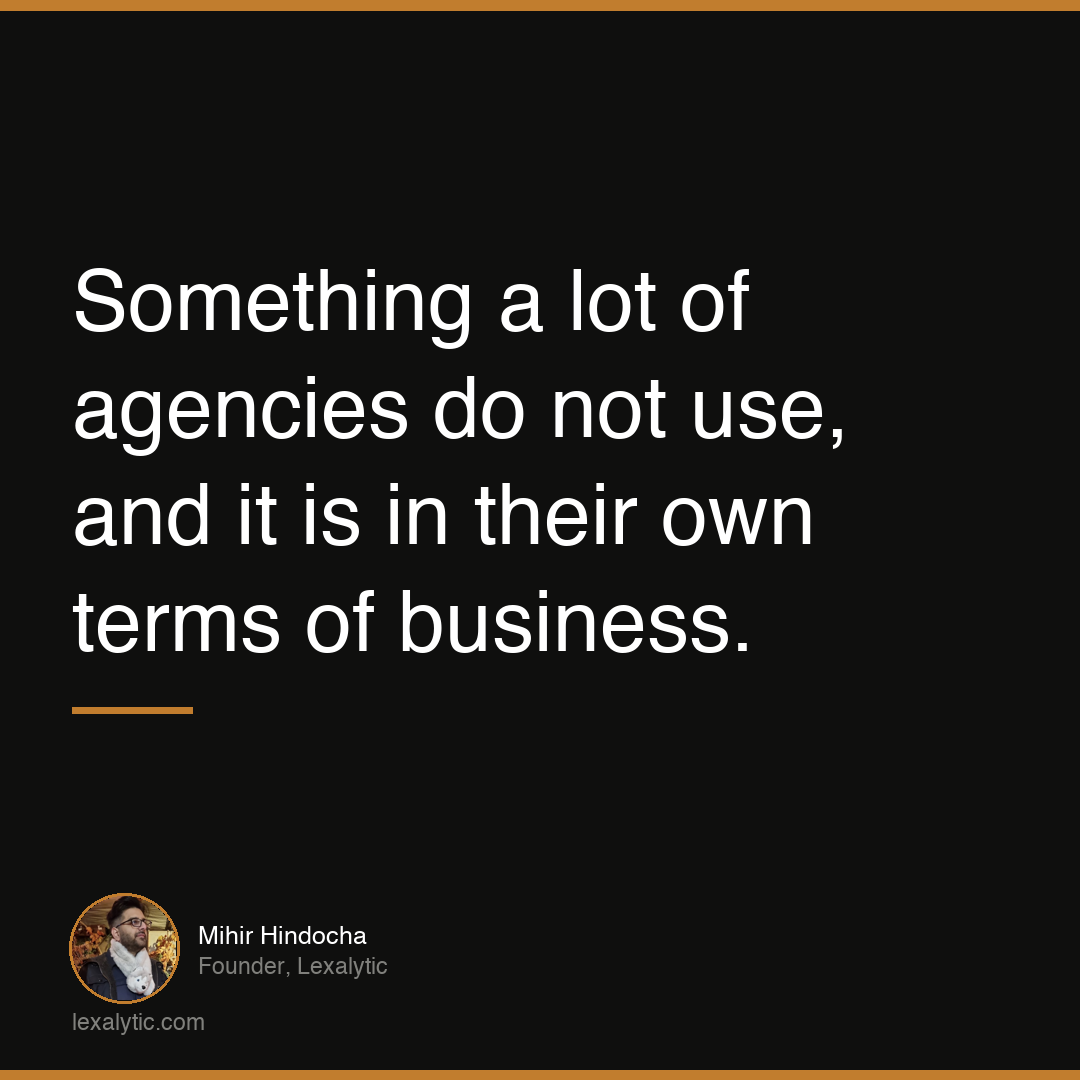
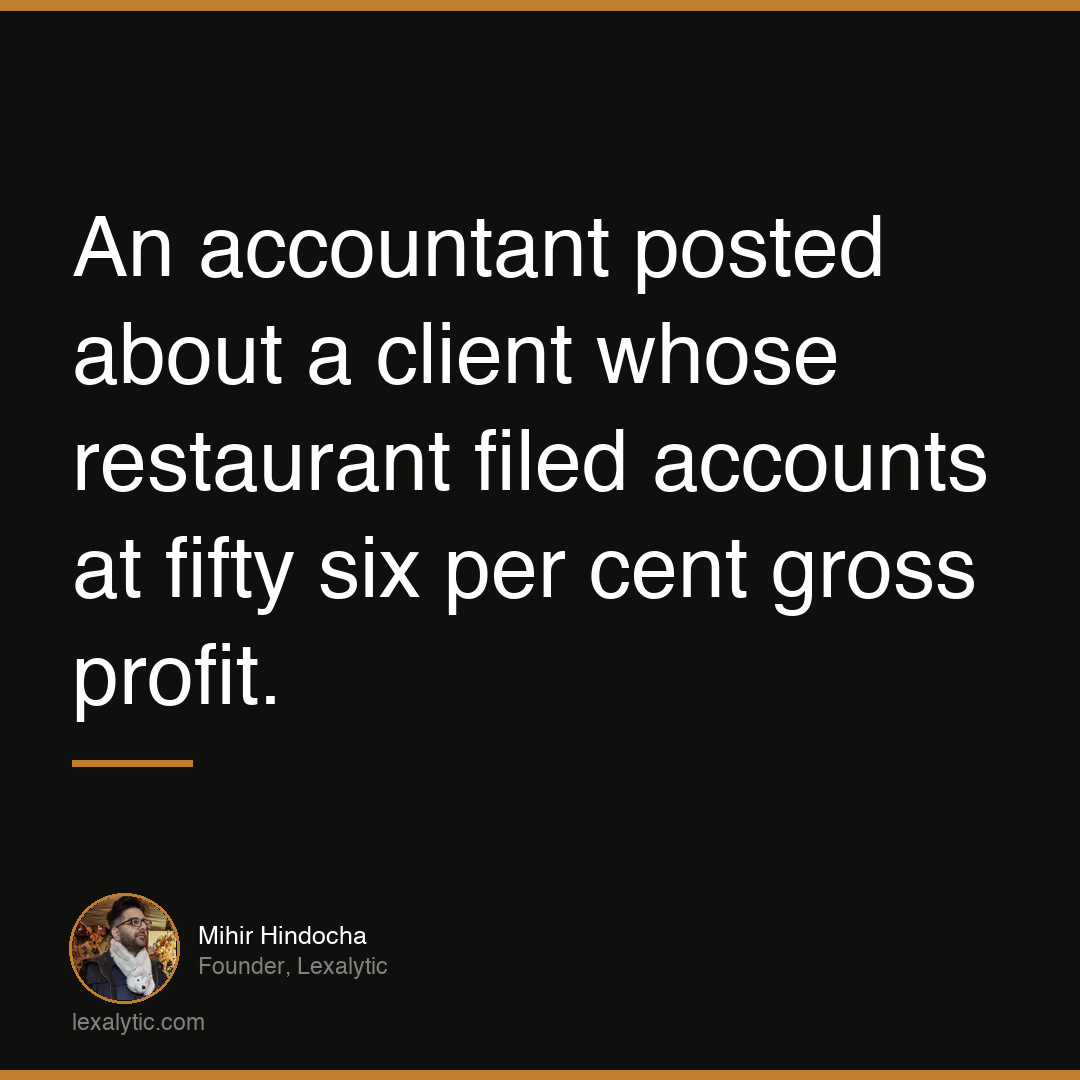
add hospitality blog posts and LinkedIn posts with images

Changed region(s): [[0.0611, 0.1833, 0.9167, 0.6722], [0.0611, 0.7028, 0.1833, 0.7333]]

diff --git a/app/blog/restaurant-below-benchmark-gross-profit/page.tsx b/app/blog/restaurant-below-benchmark-gross-profit/page.tsx
@@ -1,0 +1,114 @@
+import type { Metadata } from 'next'
+import Link from 'next/link'
+
+export const metadata: Metadata = {
+  alternates: { canonical: 'https://www.lexalytic.com/blog/restaurant-below-benchmark-gross-profit' },
+  title: 'Your Gross Profit Is Below Benchmark. That Is Not The Same As Being Wrong. | Lexalytic',
+  description: 'HMRC compares filed restaurant returns against expected profit benchmarks automatically. Delivery commission, discounting and waste all depress margin legitimately. The difficulty is evidencing that after the fact rather than before.',
+  openGraph: {
+    title: 'Your Gross Profit Is Below Benchmark. That Is Not The Same As Being Wrong.',
+    description: 'HMRC compares filed restaurant returns against expected profit benchmarks automatically. Delivery commission, discounting and waste all depress margin legitimately. The difficulty is evidencing that after the fact rather than before.',
+    url: 'https://www.lexalytic.com/blog/restaurant-below-benchmark-gross-profit',
+    siteName: 'Lexalytic',
+    locale: 'en_GB',
+    type: 'article',
+  },
+}
+
+const articleSchema = {
+  "@context": "https://schema.org",
+  "@type": "Article",
+  "headline": "Your Gross Profit Is Below Benchmark. That Is Not The Same As Being Wrong.",
+  "description": "HMRC compares filed restaurant returns against expected profit benchmarks automatically. Delivery commission, discounting and waste all depress margin legitimately. The difficulty is evidencing that after the fact rather than before.",
+  "datePublished": "2026-11-19",
+  "dateModified": "2026-11-19",
+  "author": {
+    "@type": "Person",
+    "name": "Mihir Hindocha",
+    "url": "https://www.lexalytic.com/about",
+    "jobTitle": "Founder",
+    "worksFor": {
+      "@type": "Organization",
+      "name": "Lexalytic",
+      "url": "https://www.lexalytic.com"
+    }
+  },
+  "publisher": {
+    "@id": "https://www.lexalytic.com/#organisation"
+  },
+  "mainEntityOfPage": {
+    "@type": "WebPage",
+    "@id": "https://www.lexalytic.com/blog/restaurant-below-benchmark-gross-profit"
+  },
+  "inLanguage": "en-GB",
+  "articleSection": "Hospitality"
+}
+
+export default function BlogPost() {
+  return (
+    <div style={{ background: 'var(--bg)', minHeight: '100vh' }}>
+      <script type="application/ld+json" dangerouslySetInnerHTML={{ __html: JSON.stringify(articleSchema) }} />
+      <nav style={{ position: 'fixed', top: 0, left: 0, right: 0, zIndex: 1000, background: 'rgba(250,250,248,0.95)', backdropFilter: 'blur(12px)', borderBottom: '1px solid rgba(15,15,15,0.08)' }}>
+        <div className="container" style={{ display: 'flex', alignItems: 'center', justifyContent: 'space-between', height: '68px' }}>
+          <Link href="/" style={{ fontFamily: 'var(--serif)', fontSize: '22px', color: 'var(--ink)', letterSpacing: '-0.03em' }}>Lex<span style={{ color: 'var(--amber)' }}>alytic</span></Link>
+          <div style={{ display: 'flex', gap: '24px', alignItems: 'center' }} className="desktop-nav">
+            <Link href="/tools" style={{ fontSize: '14px', color: 'var(--ink-3)' }}>Free Tools</Link>
+            <Link href="/blog" style={{ fontSize: '14px', color: 'var(--ink-3)' }}>Blog</Link>
+            <Link href="/#contact" className="btn-primary" style={{ padding: '10px 20px', fontSize: '14px' }}>Book free call</Link>
+          </div>
+        </div>
+      </nav>
+      <section style={{ paddingTop: '120px', paddingBottom: '60px', background: 'var(--bg-2)', borderBottom: '1px solid var(--border)' }}>
+        <div className="container" style={{ maxWidth: '780px' }}>
+          <div style={{ display: 'flex', gap: '12px', marginBottom: '20px', flexWrap: 'wrap' }}>
+            <span style={{ fontSize: '12px', fontWeight: '500', color: 'var(--amber)', background: 'rgba(193,125,46,0.1)', padding: '4px 12px', borderRadius: '100px' }}>Hospitality</span>
+            <span style={{ fontSize: '12px', color: 'var(--ink-4)' }}>November 2026 · 8 min read</span>
+          </div>
+          <h1 style={{ fontSize: 'clamp(1.8rem, 4vw, 2.8rem)', lineHeight: '1.15', marginBottom: '24px', letterSpacing: '-0.02em' }}>Your Gross Profit Is Below Benchmark. That Is Not The Same As Being Wrong.</h1>
+          <div style={{ display: 'flex', gap: '16px', alignItems: 'center', padding: '20px', background: 'var(--bg)', borderRadius: 'var(--radius)', border: '1px solid var(--border)' }}>
+            <img src="/mihir.jpg" alt="Mihir Hindocha" style={{ width: '44px', height: '44px', borderRadius: '50%', objectFit: 'cover', flexShrink: 0 }} />
+            <div>
+              <a href="/about" style={{ fontSize: '14px', fontWeight: '500', color: 'var(--ink)', textDecoration: 'none' }}>Mihir Hindocha</a>
+              <div style={{ fontSize: '13px', color: 'var(--ink-4)' }}>Digital Studio Founder · Lexalytic · 15 years experience</div>
+            </div>
+          </div>
+        </div>
+      </section>
+      <article style={{ padding: 'clamp(40px, 6vw, 80px) 0' }}>
+        <div className="container" style={{ maxWidth: '780px' }}>
+          <p style={{ fontSize: '18px', color: 'var(--ink-2)', lineHeight: '1.85', marginBottom: '48px' }}>An accountant once posted about a client whose Indian restaurant filed accounts showing fifty six per cent gross profit. The inspector said it should be at least sixty, based on other restaurants. The client was not doing anything wrong. Explaining that, after the year had closed and without the records to hand, turned out to be the hard part.</p>
+          <div style={{ background: 'var(--bg-2)', border: '1px solid var(--border)', borderRadius: 'var(--radius-lg)', padding: '28px 32px', marginBottom: '48px' }}>
+            <h2 style={{ fontSize: 'clamp(1.3rem, 2.5vw, 1.7rem)', marginBottom: '16px' }}>How the comparison happens</h2>
+            <p style={{ fontSize: '17px', color: 'var(--ink-2)', lineHeight: '1.85', margin: 0 }}>HMRC publishes expected profit figures for restaurants and compares filed returns against them through the Connect system. It is automatic rather than something an inspector decides to look at. Full service and casual dining is generally expected at sixty five to seventy per cent gross and three to six per cent net, quick service and takeaways at sixty five to seventy per cent gross and six to nine per cent net, and pubs higher again because drink carries better margin. Sitting consistently below the band for your format is one of the most common triggers for a compliance check, because from the outside it can indicate either sales that were not recorded or purchases that were.</p>
+          </div>
+          <h2 style={{ fontSize: 'clamp(1.3rem, 2.5vw, 1.7rem)', marginBottom: '20px' }}>The reasons a straight business sits low</h2>
+          <p style={{ fontSize: '17px', color: 'var(--ink-2)', lineHeight: '1.85', marginBottom: '48px' }}>Delivery platform commission is the biggest and the least visible, because it does not appear in cost of sales at all. A quarter of turnover going through a platform at thirty per cent takes several points off net margin while gross profit looks untouched. Discounting and set menus pull gross profit down directly. Waste and spoilage do the same, and hospitality runs three to five per cent as a matter of course. Staff meals, comps for unhappy tables, and a tied supply agreement if you are a pub tenant all push the same way. Each is entirely legitimate and none of them shows up anywhere obvious in a set of accounts.</p>
+          <h2 style={{ fontSize: 'clamp(1.3rem, 2.5vw, 1.7rem)', marginBottom: '20px' }}>Why the explanation has to be evidenced</h2>
+          <p style={{ fontSize: '17px', color: 'var(--ink-2)', lineHeight: '1.85', marginBottom: '48px' }}>Saying delivery commission cost you three points is an assertion. The same claim with platform statements attached is a fact. That distinction decides whether a conversation is short or long, and it is almost entirely determined by what you kept at the time. A waste log written as it happened, with dates and sign-off, is worth a great deal. A waste figure estimated eighteen months later is worth very little, however honest it is, because there is no way to distinguish it from a number chosen to fit.</p>
+          <h2 style={{ fontSize: 'clamp(1.3rem, 2.5vw, 1.7rem)', marginBottom: '20px' }}>What is worth keeping, and when</h2>
+          <p style={{ fontSize: '17px', color: 'var(--ink-2)', lineHeight: '1.85', marginBottom: '48px' }}>Platform statements showing commission deducted, and the split between platform and direct sales in your till reports. Till reports showing discount codes applied by period, with copies of the offers that ran and the dates. A dated waste log, kept contemporaneously, with supervisor sign-off on anything significant. A written staff meal policy and a record of meals taken. If you are tied, the tenancy agreement plus pubco price lists against open market quotes for the same products. None of this is difficult while it is happening. All of it is close to impossible to recreate afterwards.</p>
+          <h2 style={{ fontSize: 'clamp(1.3rem, 2.5vw, 1.7rem)', marginBottom: '20px' }}>The platform reporting nobody mentioned</h2>
+          <p style={{ fontSize: '17px', color: 'var(--ink-2)', lineHeight: '1.85', marginBottom: '48px' }}>Digital platforms now report seller income directly to HMRC. Deliveroo, Uber Eats and Just Eat all do it. So your platform turnover is already known, regardless of what your own records show. For the overwhelming majority of operators this changes nothing, because the figures agree. It does mean that any discrepancy surfaces automatically rather than only if somebody chooses to look, and it means the reconciliation between your till, your platform statements and your return matters more than it used to.</p>
+          <h2 style={{ fontSize: 'clamp(1.3rem, 2.5vw, 1.7rem)', marginBottom: '20px' }}>When the gap is not explained</h2>
+          <p style={{ fontSize: '17px', color: 'var(--ink-2)', lineHeight: '1.85', marginBottom: '48px' }}>Sometimes you work through all of it and the numbers still do not account for the variance. That is worth knowing for its own sake, not because of HMRC. An unexplained gap between what you should be making and what you are making usually means stock going out without being rung through, portioning that has drifted, or a supplier price rise that nobody caught. All three cost you money whether anyone ever asks about them or not.</p>
+          <div style={{ borderLeft: '3px solid var(--amber)', paddingLeft: '24px', marginBottom: '48px' }}>
+            <h2 style={{ fontSize: 'clamp(1.3rem, 2.5vw, 1.7rem)', marginBottom: '16px' }}>Seeing it before somebody else does</h2>
+            <p style={{ fontSize: '17px', color: 'var(--ink-2)', lineHeight: '1.85', margin: 0 }}>Our free benchmark check shows where your figures sit against the published ranges for your format, how much of any gap delivery mix, discounting, waste and a tie would account for, and what records would evidence each one. It takes a few minutes and runs entirely in your browser. If you have already had a letter, speak to an accountant or a tax investigation specialist rather than relying on a tool.</p>
+          </div>
+          <div style={{ padding: '36px', background: 'var(--ink)', borderRadius: 'var(--radius-lg)', marginTop: '56px' }}>
+            <h3 style={{ color: 'var(--white)', fontSize: 'clamp(1.2rem, 2.5vw, 1.5rem)', marginBottom: '14px' }}>How do your numbers look from the outside?</h3>
+            <p style={{ color: 'rgba(255,255,255,0.55)', fontSize: '15px', lineHeight: '1.75', maxWidth: '520px', marginBottom: '26px' }}>Free check against the published benchmarks, with what would explain a gap and what records would evidence it. Nothing is uploaded.</p>
+            <Link href="/tools/restaurant-benchmark-check" className="btn-amber" style={{ fontSize: '15px', padding: '14px 28px' }}>Check where your numbers sit</Link>
+          </div>
+        </div>
+      </article>
+      <footer style={{ padding: '40px 0', borderTop: '1px solid var(--border)', marginTop: '40px' }}>
+        <div className="container" style={{ display: 'flex', justifyContent: 'space-between', alignItems: 'center', flexWrap: 'wrap', gap: '16px' }}>
+          <Link href="/" style={{ fontFamily: 'var(--serif)', fontSize: '20px', color: 'var(--ink)', letterSpacing: '-0.03em' }}>Lex<span style={{ color: 'var(--amber)' }}>alytic</span></Link>
+          <p style={{ fontSize: '13px', color: 'var(--ink-4)', margin: 0 }}>2026 Lexalytic. All rights reserved.</p>
+          <Link href="/tools" style={{ fontSize: '13px', color: 'var(--ink-3)' }}>Free tools</Link>
+        </div>
+      </footer>
+    </div>
+  )
+}

diff --git a/app/blog/what-deliveroo-commission-really-costs/page.tsx b/app/blog/what-deliveroo-commission-really-costs/page.tsx
@@ -1,0 +1,114 @@
+import type { Metadata } from 'next'
+import Link from 'next/link'
+
+export const metadata: Metadata = {
+  alternates: { canonical: 'https://www.lexalytic.com/blog/what-deliveroo-commission-really-costs' },
+  title: 'What Deliveroo Actually Costs You Per Dish | Lexalytic',
+  description: 'A twelve pound dish returns around eight pounds forty after commission, before VAT and packaging. Most kitchens price delivery identically to dine-in, which means the thinnest dishes lose money on every order.',
+  openGraph: {
+    title: 'What Deliveroo Actually Costs You Per Dish',
+    description: 'A twelve pound dish returns around eight pounds forty after commission, before VAT and packaging. Most kitchens price delivery identically to dine-in, which means the thinnest dishes lose money on every order.',
+    url: 'https://www.lexalytic.com/blog/what-deliveroo-commission-really-costs',
+    siteName: 'Lexalytic',
+    locale: 'en_GB',
+    type: 'article',
+  },
+}
+
+const articleSchema = {
+  "@context": "https://schema.org",
+  "@type": "Article",
+  "headline": "What Deliveroo Actually Costs You Per Dish",
+  "description": "A twelve pound dish returns around eight pounds forty after commission, before VAT and packaging. Most kitchens price delivery identically to dine-in, which means the thinnest dishes lose money on every order.",
+  "datePublished": "2026-10-13",
+  "dateModified": "2026-10-13",
+  "author": {
+    "@type": "Person",
+    "name": "Mihir Hindocha",
+    "url": "https://www.lexalytic.com/about",
+    "jobTitle": "Founder",
+    "worksFor": {
+      "@type": "Organization",
+      "name": "Lexalytic",
+      "url": "https://www.lexalytic.com"
+    }
+  },
+  "publisher": {
+    "@id": "https://www.lexalytic.com/#organisation"
+  },
+  "mainEntityOfPage": {
+    "@type": "WebPage",
+    "@id": "https://www.lexalytic.com/blog/what-deliveroo-commission-really-costs"
+  },
+  "inLanguage": "en-GB",
+  "articleSection": "Hospitality"
+}
+
+export default function BlogPost() {
+  return (
+    <div style={{ background: 'var(--bg)', minHeight: '100vh' }}>
+      <script type="application/ld+json" dangerouslySetInnerHTML={{ __html: JSON.stringify(articleSchema) }} />
+      <nav style={{ position: 'fixed', top: 0, left: 0, right: 0, zIndex: 1000, background: 'rgba(250,250,248,0.95)', backdropFilter: 'blur(12px)', borderBottom: '1px solid rgba(15,15,15,0.08)' }}>
+        <div className="container" style={{ display: 'flex', alignItems: 'center', justifyContent: 'space-between', height: '68px' }}>
+          <Link href="/" style={{ fontFamily: 'var(--serif)', fontSize: '22px', color: 'var(--ink)', letterSpacing: '-0.03em' }}>Lex<span style={{ color: 'var(--amber)' }}>alytic</span></Link>
+          <div style={{ display: 'flex', gap: '24px', alignItems: 'center' }} className="desktop-nav">
+            <Link href="/tools" style={{ fontSize: '14px', color: 'var(--ink-3)' }}>Free Tools</Link>
+            <Link href="/blog" style={{ fontSize: '14px', color: 'var(--ink-3)' }}>Blog</Link>
+            <Link href="/#contact" className="btn-primary" style={{ padding: '10px 20px', fontSize: '14px' }}>Book free call</Link>
+          </div>
+        </div>
+      </nav>
+      <section style={{ paddingTop: '120px', paddingBottom: '60px', background: 'var(--bg-2)', borderBottom: '1px solid var(--border)' }}>
+        <div className="container" style={{ maxWidth: '780px' }}>
+          <div style={{ display: 'flex', gap: '12px', marginBottom: '20px', flexWrap: 'wrap' }}>
+            <span style={{ fontSize: '12px', fontWeight: '500', color: 'var(--amber)', background: 'rgba(193,125,46,0.1)', padding: '4px 12px', borderRadius: '100px' }}>Hospitality</span>
+            <span style={{ fontSize: '12px', color: 'var(--ink-4)' }}>October 2026 · 7 min read</span>
+          </div>
+          <h1 style={{ fontSize: 'clamp(1.8rem, 4vw, 2.8rem)', lineHeight: '1.15', marginBottom: '24px', letterSpacing: '-0.02em' }}>What Deliveroo Actually Costs You Per Dish</h1>
+          <div style={{ display: 'flex', gap: '16px', alignItems: 'center', padding: '20px', background: 'var(--bg)', borderRadius: 'var(--radius)', border: '1px solid var(--border)' }}>
+            <img src="/mihir.jpg" alt="Mihir Hindocha" style={{ width: '44px', height: '44px', borderRadius: '50%', objectFit: 'cover', flexShrink: 0 }} />
+            <div>
+              <a href="/about" style={{ fontSize: '14px', fontWeight: '500', color: 'var(--ink)', textDecoration: 'none' }}>Mihir Hindocha</a>
+              <div style={{ fontSize: '13px', color: 'var(--ink-4)' }}>Digital Studio Founder · Lexalytic · 15 years experience</div>
+            </div>
+          </div>
+        </div>
+      </section>
+      <article style={{ padding: 'clamp(40px, 6vw, 80px) 0' }}>
+        <div className="container" style={{ maxWidth: '780px' }}>
+          <p style={{ fontSize: '18px', color: 'var(--ink-2)', lineHeight: '1.85', marginBottom: '48px' }}>A twelve pound dish on Deliveroo returns roughly eight pounds forty. That is before you take the VAT off, before the box, and before anyone in the kitchen has touched it. Most independents price their delivery menu identically to the restaurant menu, which means the platform commission comes entirely out of margin that was already thin.</p>
+          <div style={{ background: 'var(--bg-2)', border: '1px solid var(--border)', borderRadius: 'var(--radius-lg)', padding: '28px 32px', marginBottom: '48px' }}>
+            <h2 style={{ fontSize: 'clamp(1.3rem, 2.5vw, 1.7rem)', marginBottom: '16px' }}>The order the maths happens in</h2>
+            <p style={{ fontSize: '17px', color: 'var(--ink-2)', lineHeight: '1.85', margin: 0 }}>This is where most operators go wrong, and it costs more than the commission rate itself. The customer pays twelve pounds including VAT. If you are VAT registered, two pounds of that was never yours. You are working from ten pounds. The platform then takes its cut of the sale, so at thirty per cent you receive seven pounds. Out of that comes the food cost and the packaging. On a dish costing four pounds twenty with forty five pence of packaging, you are left with about two pounds thirty five against the four pounds seventy you would have made in the restaurant. Work the percentages the other way round and you will convince yourself you are making nearly twice what you are.</p>
+          </div>
+          <h2 style={{ fontSize: 'clamp(1.3rem, 2.5vw, 1.7rem)', marginBottom: '20px' }}>What the rates actually are</h2>
+          <p style={{ fontSize: '17px', color: 'var(--ink-2)', lineHeight: '1.85', marginBottom: '48px' }}>Deliveroo and Uber Eats typically sit between twenty five and thirty five per cent where they provide the rider, with the exact figure depending on your contract and how long you have been on the platform. Just Eat runs considerably lower on its order-only tier, often around fourteen per cent, because you are doing the delivery yourself. That difference is enormous on a dish with a thin margin, and it is worth knowing which tier you are actually on rather than which one you signed up to. Rates get renegotiated, promotional periods end, and the statement is the only reliable source.</p>
+          <h2 style={{ fontSize: 'clamp(1.3rem, 2.5vw, 1.7rem)', marginBottom: '20px' }}>Why the thin dishes are the dangerous ones</h2>
+          <p style={{ fontSize: '17px', color: 'var(--ink-2)', lineHeight: '1.85', marginBottom: '48px' }}>A dish running at seventy per cent margin in the restaurant survives a thirty per cent commission, badly but survives. A dish at fifty five per cent does not. The problem is that the low margin dishes are frequently the popular ones, because they are cheap and people order them. So the volume is concentrated in exactly the items that lose money, and every marketing push, every promotion, every bit of platform visibility makes the position worse rather than better. Selling more of a loss-making dish is not a growth problem, it is an acceleration of the same mistake.</p>
+          <h2 style={{ fontSize: 'clamp(1.3rem, 2.5vw, 1.7rem)', marginBottom: '20px' }}>Pricing the delivery menu separately</h2>
+          <p style={{ fontSize: '17px', color: 'var(--ink-2)', lineHeight: '1.85', marginBottom: '48px' }}>Delivery menus generally need eight to twelve percentage points more margin than dine-in to end up in the same place, which in practice means pricing fifteen to twenty five per cent higher. Every major platform permits this and most chains do it, which is why a Big Mac costs more on Uber Eats than in the restaurant. Customers are used to it and the platforms do not penalise it. The reluctance is almost always the operator worrying about looking expensive, which is a reasonable instinct applied to the wrong problem.</p>
+          <h2 style={{ fontSize: 'clamp(1.3rem, 2.5vw, 1.7rem)', marginBottom: '20px' }}>The dishes that should not be on there at all</h2>
+          <p style={{ fontSize: '17px', color: 'var(--ink-2)', lineHeight: '1.85', marginBottom: '48px' }}>Some dishes do not work on delivery whatever you charge. Anything that goes soggy, anything that needs to arrive hot and does not, anything where the portion looks mean in a box. Those damage the review score as well as the margin, which then hurts your visibility on the platform. Taking them off the delivery menu is not a loss, it is removing a thing that was costing you twice.</p>
+          <h2 style={{ fontSize: 'clamp(1.3rem, 2.5vw, 1.7rem)', marginBottom: '20px' }}>One more reason to know your platform numbers</h2>
+          <p style={{ fontSize: '17px', color: 'var(--ink-2)', lineHeight: '1.85', marginBottom: '48px' }}>Under the digital platform reporting rules, Deliveroo, Uber Eats and Just Eat report seller income directly to HMRC. Whatever your own records say, the platform turnover is visible. That is not a problem if the two agree, which for most operators they do, but it is worth knowing that the reconciliation happens automatically rather than only if somebody goes looking.</p>
+          <div style={{ borderLeft: '3px solid var(--amber)', paddingLeft: '24px', marginBottom: '48px' }}>
+            <h2 style={{ fontSize: 'clamp(1.3rem, 2.5vw, 1.7rem)', marginBottom: '16px' }}>Working out where you actually stand</h2>
+            <p style={{ fontSize: '17px', color: 'var(--ink-2)', lineHeight: '1.85', margin: 0 }}>It takes about ten minutes with your top ten dishes and a recent platform statement. Our free delivery margin calculator handles the VAT and commission in the right order, shows the margin per dish against what the same dish earns dine-in, and gives you two prices: what you would need to charge to stop losing money, and what you would need to charge to earn the same margin percentage as the restaurant. Nothing is uploaded and it runs in your browser.</p>
+          </div>
+          <div style={{ padding: '36px', background: 'var(--ink)', borderRadius: 'var(--radius-lg)', marginTop: '56px' }}>
+            <h3 style={{ color: 'var(--white)', fontSize: 'clamp(1.2rem, 2.5vw, 1.5rem)', marginBottom: '14px' }}>Which of your dishes lose money on delivery?</h3>
+            <p style={{ color: 'rgba(255,255,255,0.55)', fontSize: '15px', lineHeight: '1.75', maxWidth: '520px', marginBottom: '26px' }}>Free calculator that handles the VAT and commission in the right order, and tells you what to charge instead. Nothing is uploaded.</p>
+            <Link href="/tools/delivery-margin" className="btn-amber" style={{ fontSize: '15px', padding: '14px 28px' }}>Work out your delivery margin</Link>
+          </div>
+        </div>
+      </article>
+      <footer style={{ padding: '40px 0', borderTop: '1px solid var(--border)', marginTop: '40px' }}>
+        <div className="container" style={{ display: 'flex', justifyContent: 'space-between', alignItems: 'center', flexWrap: 'wrap', gap: '16px' }}>
+          <Link href="/" style={{ fontFamily: 'var(--serif)', fontSize: '20px', color: 'var(--ink)', letterSpacing: '-0.03em' }}>Lex<span style={{ color: 'var(--amber)' }}>alytic</span></Link>
+          <p style={{ fontSize: '13px', color: 'var(--ink-4)', margin: 0 }}>2026 Lexalytic. All rights reserved.</p>
+          <Link href="/tools" style={{ fontSize: '13px', color: 'var(--ink-3)' }}>Free tools</Link>
+        </div>
+      </footer>
+    </div>
+  )
+}

diff --git a/app/blog/page.tsx b/app/blog/page.tsx
@@ -9,6 +9,22 @@ export const metadata: Metadata = {
 
 const posts = [
   {
+    slug: 'restaurant-below-benchmark-gross-profit',
+    title: 'Your Gross Profit Is Below Benchmark. That Is Not The Same As Being Wrong.',
+    excerpt: 'HMRC compares filed restaurant returns against expected profit benchmarks automatically. Delivery commission, discounting and waste all depress margin legitimately.',
+    date: 'November 2026',
+    readTime: '8 min read',
+    tag: 'Hospitality',
+  },
+  {
+    slug: 'what-deliveroo-commission-really-costs',
+    title: 'What Deliveroo Actually Costs You Per Dish',
+    excerpt: 'A twelve pound dish returns around eight pounds forty after commission, before VAT and packaging. Most kitchens price delivery identically to dine-in.',
+    date: 'October 2026',
+    readTime: '7 min read',
+    tag: 'Hospitality',
+  },
+  {
     slug: 'recruitment-rebate-liability-nobody-measures',
     title: 'The Recruitment Liability Almost Nobody Measures',
     excerpt: 'Every permanent placement inside its rebate window is money you have billed and could still be asked to return. Most agencies have never put a number on it.',

diff --git a/app/sitemap.ts b/app/sitemap.ts
@@ -156,5 +156,7 @@ export default function sitemap(): MetadataRoute.Sitemap {
     { url: 'https://www.lexalytic.com/tools/delivery-margin', lastModified: new Date(), changeFrequency: 'monthly', priority: 0.9 },
     { url: 'https://www.lexalytic.com/tools/pub-gp-calculator', lastModified: new Date(), changeFrequency: 'monthly', priority: 0.9 },
     { url: 'https://www.lexalytic.com/tools/labour-by-session', lastModified: new Date(), changeFrequency: 'monthly', priority: 0.9 },
+    { url: 'https://www.lexalytic.com/blog/what-deliveroo-commission-really-costs', lastModified: new Date(), changeFrequency: 'monthly', priority: 0.8 },
+    { url: 'https://www.lexalytic.com/blog/restaurant-below-benchmark-gross-profit', lastModified: new Date(), changeFrequency: 'monthly', priority: 0.8 },
   ]
 }
